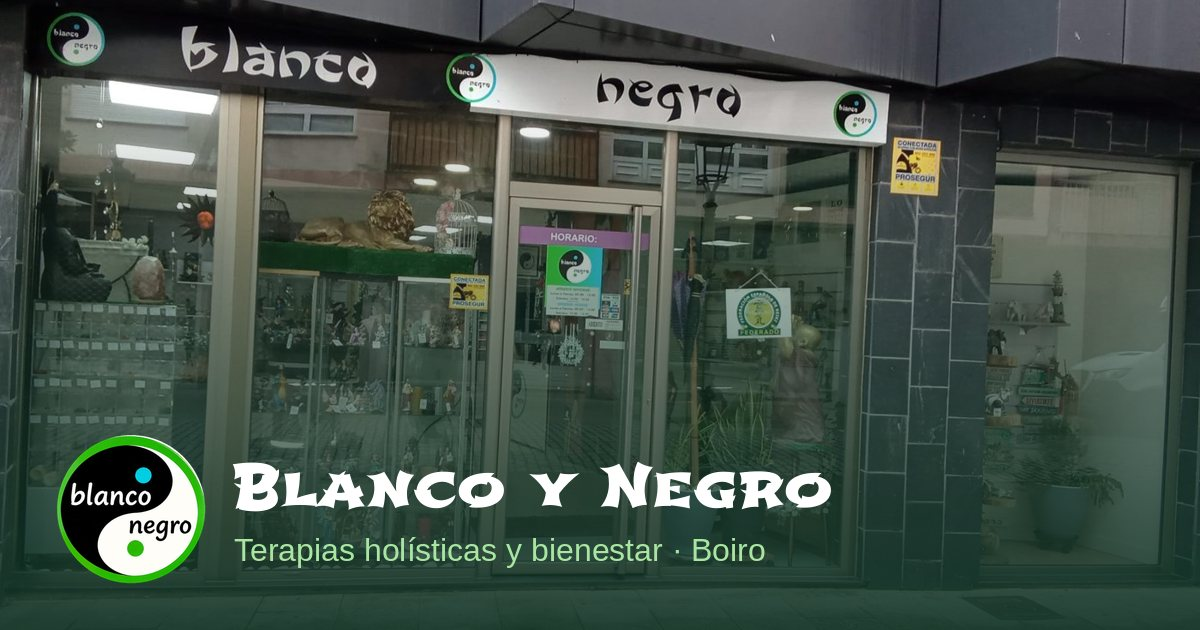
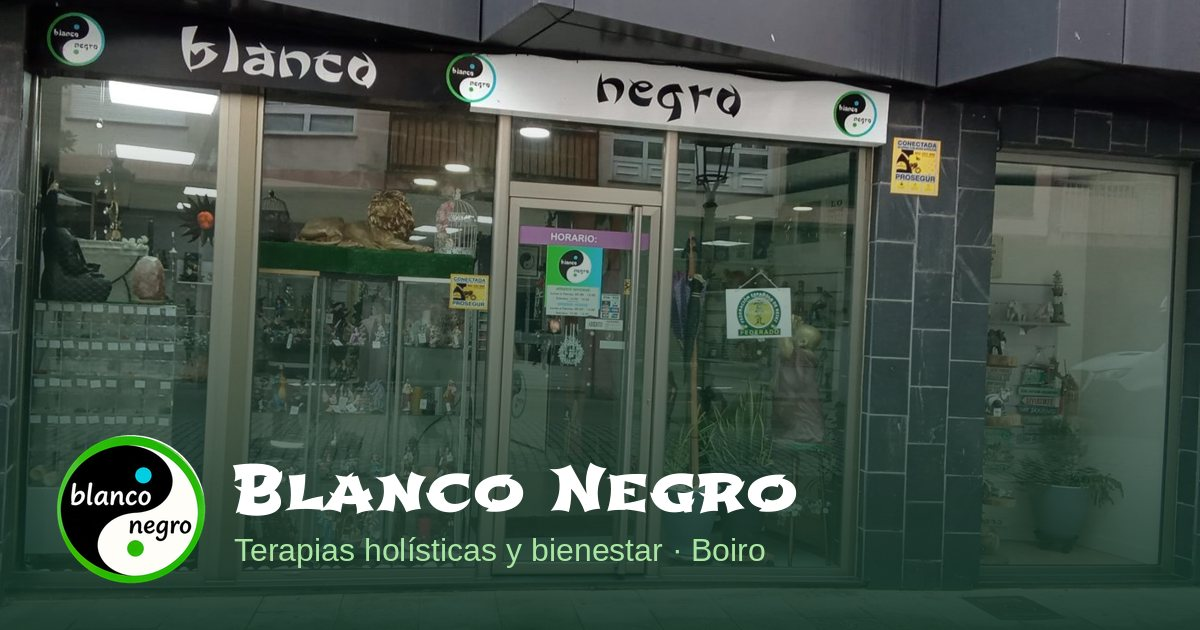
Nombre comercial unificado como 'Blanco Negro' en toda la web (y normalizado aunque el TPV lo envíe con 'y'); imagen para compartir actualizada
Claude-Session: https://claude.ai/code/session_012MbDtfVshCZGNd2hwNNkNC

Changed region(s): [[0.185, 0.7238, 0.7092, 0.8143]]

diff --git a/src/components/MainPageClient.tsx b/src/components/MainPageClient.tsx
@@ -543,7 +543,7 @@ export const MainPageClient: React.FC<MainPageClientProps> = ({ data }) => {
     } else if (serviceTitle) {
       messageText = `Hola, me gustaría reservar una cita para "${serviceTitle}". ¿Qué disponibilidad tenéis?`;
     } else {
-      messageText = "Hola, me gustaría reservar una cita en Blanco y Negro. ¿Qué disponibilidad tenéis?";
+      messageText = "Hola, me gustaría reservar una cita en Blanco Negro. ¿Qué disponibilidad tenéis?";
     }
     const url = `https://wa.me/${cleanPhone}?text=${encodeURIComponent(messageText)}`;
     window.open(url, "_blank");
@@ -1329,7 +1329,7 @@ export const MainPageClient: React.FC<MainPageClientProps> = ({ data }) => {
         </section>
         )}
 
-        {/* ================= SECCIÓN 7: EL ESPACIO BLANCO Y NEGRO (SOBRE MÍ) ================= */}
+        {/* ================= SECCIÓN 7: EL ESPACIO BLANCO NEGRO (SOBRE MÍ) ================= */}
         {aboutSection?.activo !== false && (
           <section id="sobre-mi" className="py-16 bg-[#f1faea] border-b border-[#d3ebcf]">
             <div className="max-w-7xl mx-auto px-4 sm:px-6 lg:px-8">
@@ -1342,14 +1342,14 @@ export const MainPageClient: React.FC<MainPageClientProps> = ({ data }) => {
                       aboutSection?.contenido?.therapistImg ||
                       "https://images.unsplash.com/photo-1545205597-3d9d02c29597?auto=format&fit=crop&w=800&q=80"
                     }
-                    alt={aboutSection?.titulo || `Espacio Blanco y Negro en Boiro`}
+                    alt={aboutSection?.titulo || `Espacio Blanco Negro en Boiro`}
                     fill
                     className="object-cover"
                   />
                 </div>
                 <div className="lg:col-span-7 space-y-3">
                   <span className="text-xs font-bold uppercase tracking-wider text-[#2f9a3b] bg-[#e3f5e0] px-3 py-1 rounded-full">
-                    {aboutSection?.contenido?.badge || "El Espacio Blanco y Negro"}
+                    {aboutSection?.contenido?.badge || "El Espacio Blanco Negro"}
                   </span>
                   <h2 className="font-serif text-3xl font-bold text-[#1b261f]">
                     {aboutSection?.titulo || "Un rincón de paz creado para reconectar contigo"}
@@ -1359,7 +1359,7 @@ export const MainPageClient: React.FC<MainPageClientProps> = ({ data }) => {
                       aboutSection?.contenido?.bio ||
                       aboutSection?.contenido?.filosofia ||
                       aboutSection?.subtitulo ||
-                      "Situado en Boiro (A Coruña), Blanco y Negro nació como un templo de escucha, sanación y armonía. Aquí unimos las terapias energéticas y manuales con una selección honesta de cuarzos auténticos, velas naturales e inciensos consagrados."}
+                      "Situado en Boiro (A Coruña), Blanco Negro nació como un templo de escucha, sanación y armonía. Aquí unimos las terapias energéticas y manuales con una selección honesta de cuarzos auténticos, velas naturales e inciensos consagrados."}
                   </p>
                   {aboutSection?.contenido?.titulacion && (
                     <p className="text-xs font-semibold text-[#5e7065]">
@@ -1783,9 +1783,9 @@ export const MainPageClient: React.FC<MainPageClientProps> = ({ data }) => {
                         ...(selectedProduct.entregaUbicacionTexto?.trim() ? [{ id: 'ent', etiqueta: 'Entrega / Ubicación', valor: selectedProduct.entregaUbicacionTexto.trim(), icono: '🏪' }] : []),
                       ];
 
-                  // Compromiso Blanco y Negro: SOLO si compromisoActivo no es false
+                  // Compromiso Blanco Negro: SOLO si compromisoActivo no es false
                   const showCompromiso = selectedProduct.compromisoActivo !== false;
-                  const compromisoEtiqueta = (selectedProduct.compromisoEtiqueta || '').trim() || 'Compromiso Blanco y Negro';
+                  const compromisoEtiqueta = (selectedProduct.compromisoEtiqueta || '').trim() || 'Compromiso Blanco Negro';
                   const defaultCompromiso = 'Piezas auténticas seleccionadas y armonizadas con respeto hacia la naturaleza en nuestro centro de Boiro.';
                   const textoCompromiso = (selectedProduct.compromisoTexto || '').trim() || defaultCompromiso;
 

diff --git a/src/lib/content.ts b/src/lib/content.ts
@@ -150,7 +150,7 @@ function mapNeonProducts(rows: any[]): ShopProduct[] {
       entregaUbicacionTexto: p.entrega_ubicacion_texto ? String(p.entrega_ubicacion_texto).trim() : (p.entregaUbicacionTexto ? String(p.entregaUbicacionTexto).trim() : undefined),
       compromisoTexto: p.compromiso_texto ? String(p.compromiso_texto).trim() : (p.compromisoTexto ? String(p.compromisoTexto).trim() : undefined),
       compromisoActivo: p.compromiso_activo !== undefined ? (p.compromiso_activo === true || p.compromiso_activo === 'true' || p.compromiso_activo === 1) : (p.compromisoActivo !== undefined ? Boolean(p.compromisoActivo) : true),
-      compromisoEtiqueta: p.compromiso_etiqueta || p.compromisoEtiqueta || 'Compromiso Blanco y Negro',
+      compromisoEtiqueta: p.compromiso_etiqueta || p.compromisoEtiqueta || 'Compromiso Blanco Negro',
       compromisoIcono: p.compromiso_icono || p.compromisoIcono || '🌿',
       camposFichaWeb: Array.isArray(p.campos_ficha_web) 
         ? p.campos_ficha_web 
@@ -293,7 +293,7 @@ function buildWebDataFromPayload(payload: any): WebData {
       entregaUbicacionTexto: p.entregaUbicacionTexto || p.entrega_ubicacion_texto ? String(p.entregaUbicacionTexto || p.entrega_ubicacion_texto).trim() : undefined,
       compromisoTexto: p.compromisoTexto || p.compromiso_texto ? String(p.compromisoTexto || p.compromiso_texto).trim() : undefined,
       compromisoActivo: p.compromisoActivo !== undefined ? Boolean(p.compromisoActivo) : (p.compromiso_activo !== undefined ? Boolean(p.compromiso_activo) : true),
-      compromisoEtiqueta: p.compromisoEtiqueta || p.compromiso_etiqueta || 'Compromiso Blanco y Negro',
+      compromisoEtiqueta: p.compromisoEtiqueta || p.compromiso_etiqueta || 'Compromiso Blanco Negro',
       camposFichaWeb: Array.isArray(p.camposFichaWeb)
         ? p.camposFichaWeb
         : (Array.isArray(p.campos_ficha_web)
@@ -337,7 +337,16 @@ function buildWebDataFromPayload(payload: any): WebData {
  * Carga los datos de la web directamente desde Neon Serverless Postgres.
  * Respaldo automático mediante Vercel Blob y datos por defecto.
  */
+const NOMBRE_MARCA = (t: string) => (t || "").replace(/blanco\s+y\s+negro/gi, "Blanco Negro");
+
+/** Datos de la web con el nombre comercial unificado como "Blanco Negro" (aunque el TPV aún lo envíe con "y"). */
 export async function getWebData(): Promise<WebData> {
+  const d = await getWebDataSinNormalizar();
+  const c = d.config;
+  return { ...d, config: { ...c, name: NOMBRE_MARCA(c.name), tagline: NOMBRE_MARCA(c.tagline), description: NOMBRE_MARCA(c.description) } };
+}
+
+async function getWebDataSinNormalizar(): Promise<WebData> {
   const sql = getDb();
 
   // 1. INTENTO PRINCIPAL: Neon Serverless Postgres

diff --git a/src/app/layout.tsx b/src/app/layout.tsx
@@ -27,7 +27,7 @@ const marca = Shojumaru({
   display: "swap",
 });
 
-const TITULO = "Blanco y Negro - Terapias Holísticas y Bienestar";
+const TITULO = "Blanco Negro - Terapias Holísticas y Bienestar";
 
 export async function generateMetadata(): Promise<Metadata> {
   // Solo blanconegro.es se indexa; cualquier otra dirección (p. ej. *.workers.dev) lleva noindex para no duplicar contenido
@@ -36,7 +36,7 @@ export async function generateMetadata(): Promise<Metadata> {
 
   return {
     metadataBase: new URL(SITE_URL),
-    title: { default: TITULO, template: "%s | Blanco y Negro" },
+    title: { default: TITULO, template: "%s | Blanco Negro" },
     description:
       "Espacio de sanación y bienestar integral: Quiromasaje terapéutico, Reiki Usui, Registros Akáshicos, Respiración consciente, talleres y armonización energética.",
     keywords: [
@@ -57,8 +57,8 @@ export async function generateMetadata(): Promise<Metadata> {
       type: "website",
       locale: "es_ES",
       url: SITE_URL,
-      siteName: "Blanco y Negro",
-      images: [{ url: "/og-blanco-y-negro.jpg", width: 1200, height: 630, alt: "Fachada de la tienda Blanco y Negro en Boiro" }],
+      siteName: "Blanco Negro",
+      images: [{ url: "/og-blanco-y-negro.jpg", width: 1200, height: 630, alt: "Fachada de la tienda Blanco Negro en Boiro" }],
     },
     twitter: { card: "summary_large_image", title: TITULO, images: ["/og-blanco-y-negro.jpg"] },
   };

diff --git a/src/data/defaultContent.ts b/src/data/defaultContent.ts
@@ -3,7 +3,7 @@ import { defaultShopProducts } from "@/data/shopProducts";
 
 export const defaultWebData: WebData = {
   config: {
-    name: "Blanco y Negro",
+    name: "Blanco Negro",
     tagline: "Terapias Holísticas y Bienestar",
     description:
       "Unos santuarios de calma y equilibrio en el que reconectar con tu esencia natural a través del quiromasaje, la energía Reiki, las lecturas de Registros Akáshicos y la respiración consciente.",
@@ -246,7 +246,7 @@ export const defaultWebData: WebData = {
       author: "David Serrano",
       service: "Reiki Usui & Chakras",
       rating: 5,
-      text: "Era muy escéptico con el tema energético hasta que probé una sesión de Reiki en Blanco y Negro - Terapias Holísticas y Bienestar. La sensación de calor en el pecho, la calma mental que experimenté y cómo descansé esa misma noche me dejaron impresionado. Totalmente recomendable para desconectar del estrés.",
+      text: "Era muy escéptico con el tema energético hasta que probé una sesión de Reiki en Blanco Negro - Terapias Holísticas y Bienestar. La sensación de calor en el pecho, la calma mental que experimenté y cómo descansé esa misma noche me dejaron impresionado. Totalmente recomendable para desconectar del estrés.",
       date: "Hace 3 semanas",
       verified: true,
     },

diff --git a/src/components/Navbar.tsx b/src/components/Navbar.tsx
@@ -55,7 +55,7 @@ export const Navbar: React.FC<NavbarProps> = ({ config, sections, onOpenBooking 
             <div className="w-12 h-12 sm:w-14 sm:h-14 rounded-full bg-transparent overflow-hidden shadow-md flex items-center justify-center transition-transform group-hover:scale-105 flex-shrink-0">
               <Image
                 src="/brand/logo-tarjeta.png"
-                alt="Logo Blanco y Negro - Yin Yang"
+                alt="Logo Blanco Negro - Yin Yang"
                 width={44}
                 height={44}
                 className="w-full h-full object-cover"
@@ -65,7 +65,7 @@ export const Navbar: React.FC<NavbarProps> = ({ config, sections, onOpenBooking 
             <div className="min-w-0">
               {/* En móvil mostramos el nombre de marca conciso para evitar que ocupe múltiples líneas */}
               <span className="sm:hidden font-[family-name:var(--font-marca)] text-base tracking-wide text-[#212924] block leading-tight truncate">
-                Blanco y Negro
+                Blanco Negro
               </span>
               <span className="hidden sm:block font-[family-name:var(--font-marca)] text-xl sm:text-2xl tracking-wide text-[#212924] leading-tight truncate">
                 {config.name}

diff --git a/src/app/sobre-mi/page.tsx b/src/app/sobre-mi/page.tsx
@@ -11,7 +11,7 @@ export const dynamic = "force-dynamic";
 export async function generateMetadata(): Promise<Metadata> {
   const { data } = await getCatalogoSeo();
   const descripcion = recortar(
-    `Conoce a ${TERAPEUTA_NOMBRE_COMPLETO}, terapeuta holística en ${data.config.city || "Boiro"}: quiromasaje, Reiki, Registros Akáshicos y respiración consciente en Blanco y Negro.`,
+    `Conoce a ${TERAPEUTA_NOMBRE_COMPLETO}, terapeuta holística en ${data.config.city || "Boiro"}: quiromasaje, Reiki, Registros Akáshicos y respiración consciente en Blanco Negro.`,
     160
   );
   return {
@@ -23,7 +23,7 @@ export async function generateMetadata(): Promise<Metadata> {
       description: descripcion,
       url: `${SITE_URL}/sobre-mi`,
       type: "profile",
-      images: [{ url: "/sobre-mi/josefa-clemente-pepi.jpg", width: 900, height: 900, alt: `${TERAPEUTA_NOMBRE_COMPLETO}, terapeuta de Blanco y Negro` }],
+      images: [{ url: "/sobre-mi/josefa-clemente-pepi.jpg", width: 900, height: 900, alt: `${TERAPEUTA_NOMBRE_COMPLETO}, terapeuta de Blanco Negro` }],
     },
     twitter: { card: "summary_large_image", images: ["/sobre-mi/josefa-clemente-pepi.jpg"] },
   };

diff --git a/src/app/tienda/ShopClient.tsx b/src/app/tienda/ShopClient.tsx
@@ -1952,9 +1952,9 @@ export const ShopClient: React.FC<ShopClientProps> = ({
                         ...(selectedProduct.entregaUbicacionTexto?.trim() ? [{ id: 'ent', etiqueta: 'Entrega / Ubicación', valor: selectedProduct.entregaUbicacionTexto.trim(), icono: '🏪' }] : []),
                       ];
 
-                  // Compromiso Blanco y Negro: SOLO si compromisoActivo no es false
+                  // Compromiso Blanco Negro: SOLO si compromisoActivo no es false
                   const showCompromiso = selectedProduct.compromisoActivo !== false;
-                  const compromisoEtiqueta = (selectedProduct.compromisoEtiqueta || '').trim() || 'Compromiso Blanco y Negro';
+                  const compromisoEtiqueta = (selectedProduct.compromisoEtiqueta || '').trim() || 'Compromiso Blanco Negro';
                   const defaultCompromiso = 'Piezas auténticas seleccionadas y armonizadas con respeto hacia la naturaleza en nuestro centro de Boiro.';
                   const textoCompromiso = (selectedProduct.compromisoTexto || '').trim() || defaultCompromiso;
 

diff --git a/src/components/Footer.tsx b/src/components/Footer.tsx
@@ -13,7 +13,7 @@ interface FooterProps {
 
 export const Footer: React.FC<FooterProps> = ({ config, section }) => {
   const fContenido = section?.contenido || {};
-  const nombre = fContenido.nombre || config.name || "Blanco y Negro";
+  const nombre = fContenido.nombre || config.name || "Blanco Negro";
   const tagline = fContenido.tagline || config.tagline || "Terapias Holísticas y Bienestar · Boiro";
   const descripcion = fContenido.descripcion || config.description ||
     "Espacio dedicado a la reconexión profunda entre cuerpo, mente y alma. Terapias naturales, productos conscientes y bienestar integral.";

diff --git a/src/components/BookingModal.tsx b/src/components/BookingModal.tsx
@@ -65,7 +65,7 @@ export const BookingModal: React.FC<BookingModalProps> = ({
             <div className="w-10 h-10 rounded-full bg-[#f1faea] border border-[#7fd6c2]/40 overflow-hidden flex items-center justify-center flex-shrink-0 shadow-xs">
               <Image
                 src="/brand/logo-tarjeta.png"
-                alt="Logo Blanco y Negro"
+                alt="Logo Blanco Negro"
                 width={40}
                 height={40}
                 className="w-full h-full object-cover"

diff --git a/src/components/BrushWaves.tsx b/src/components/BrushWaves.tsx
@@ -1,6 +1,6 @@
 import React from "react";
 
-/** Ondas de pincel verde y turquesa, como en la tarjeta de Blanco y Negro. Decorativas. */
+/** Ondas de pincel verde y turquesa, como en la tarjeta de Blanco Negro. Decorativas. */
 export const BrushWaves: React.FC<{ className?: string; flip?: boolean }> = ({ className = "", flip = false }) => (
   <svg
     aria-hidden="true"
